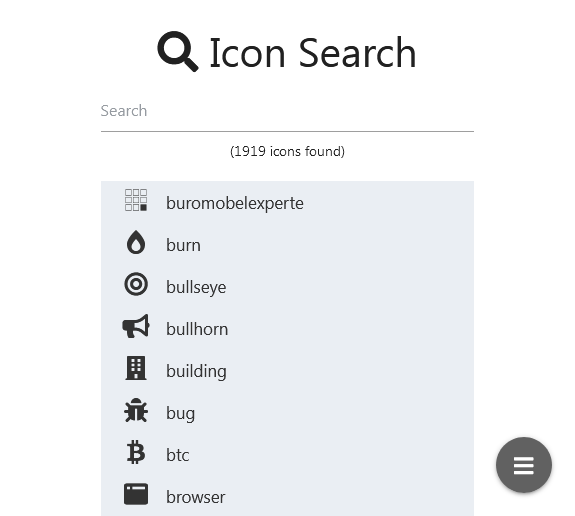
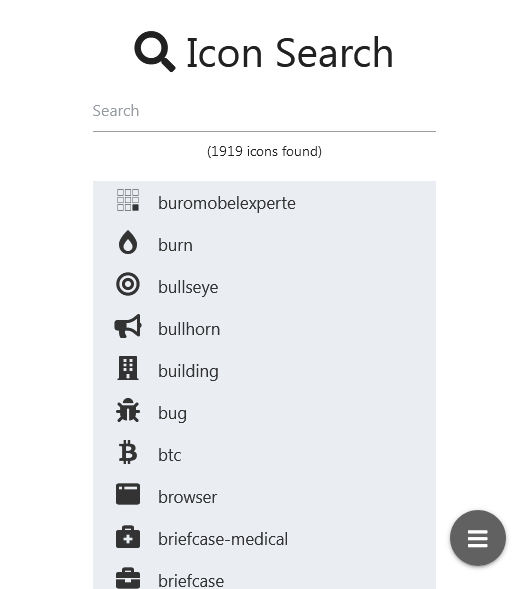
Updating og image dimensions

diff --git a/public/index.html b/public/index.html
@@ -15,8 +15,8 @@
     <meta property="og:title" content="iconBrowser" />
     <meta property="og:description" content="A React.js - Material Design and Font-Awesome icon browser" />
     <meta property="og:image" content="%PUBLIC_URL%/images/iconBrowser-pc-screen-portrait.png" />
-    <meta property="og:image:width" content="1005" />
-    <meta property="og:image:height" content="516" />
+    <meta property="og:image:width" content="529" />
+    <meta property="og:image:height" content="589" />
     <link rel="apple-touch-icon" href="%PUBLIC_URL%/logo192.png" />
     <!--
       manifest.json provides metadata used when your web app is installed on a
